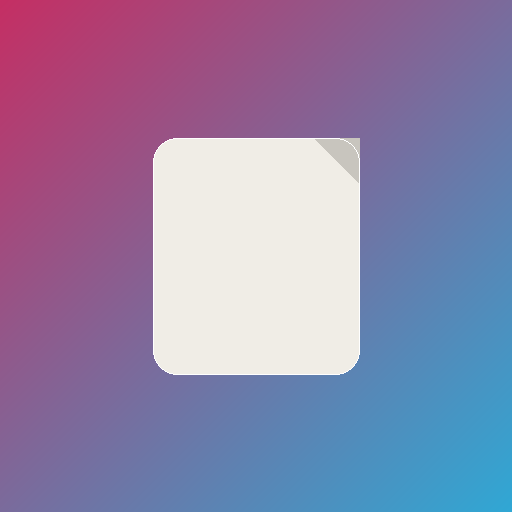
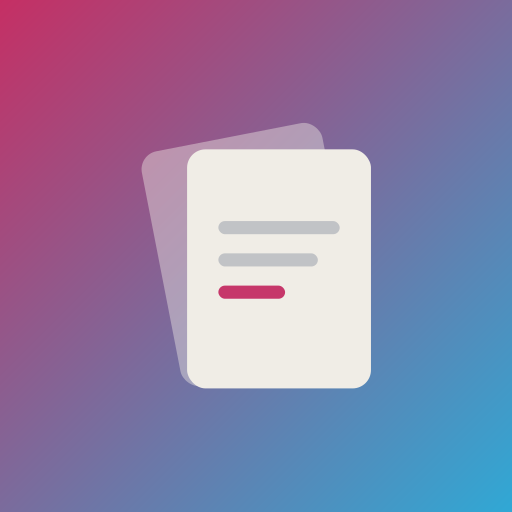
fix(pwa): refonte du set d'icônes en SVG vectoriel, centrage et zone de sécurité corrigés
Les icônes sont désormais générées à partir d'une source SVG (icons/icon.svg) rasterisée, au lieu d'un dessin pixel par pixel. Correction du coin replié qui débordait du rayon d'arrondi, du contenu décentré (marges 61/116 px), et des 26 pixels sortant de la zone de sécurité de l'icône maskable. Bump APP_VERSION (v3 → v4) car les icônes font partie du cache app shell.

Changed region(s): [[0.25, 0.2188, 0.75, 0.7812]]

diff --git a/service-worker.js b/service-worker.js
@@ -7,7 +7,7 @@
 // Pour forcer les visiteurs à récupérer une nouvelle version de l'app shell après une mise à jour,
 // incrémente APP_VERSION ci-dessous.
 
-const APP_VERSION = 'v3';
+const APP_VERSION = 'v4';
 const SHELL_CACHE = `flashcards-shell-${APP_VERSION}`;
 const DATA_CACHE = 'flashcards-data';
 const ASSETS_CACHE = 'flashcards-assets';